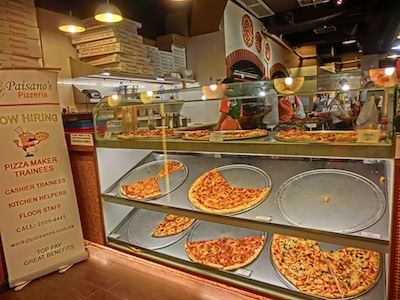
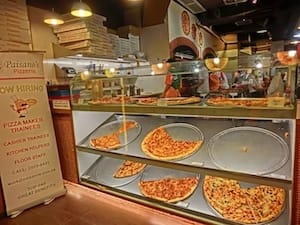
Pizza page updates
- Inlining bootstrap css styles below the footer this time.
- reduced / optimized pizzeria.jpg even more

References:
- Udacity Repo:
https://github.com/udacity/frontend-nanodegree-mobile-portfolio
-Project requirements:
https://github.com/udacity/frontend-nanodegree-mobile-portfolio

Live project url:
https://frontend-nanodegree-mobile-portfoli.netlify.com/
- I chose to host is on netlify, it uses github for version control,
this way I can directly see the page speed insights and readjust from
there.

diff --git a/views/pizza.html b/views/pizza.html
@@ -40,7 +40,6 @@
         </div>
       </div>
       <div id="movingPizzas1" class="col-md-6">
-        <!-- <img class="mover" src="images/pizza100x100.png" alt="100px by 100px pizza"> -->
       </div>
     </div>
     <div id="callToAction" class="row">
@@ -147,12 +146,14 @@
     <div id="footer" class="col-md-12">Thanks for visiting! &copy; 2014 Udacity</div>
   </div>
   <!-- minified bootstrap grid css file -->
-  <link rel="stylesheet" href="css/bootstrap-grid-min.css">
+  <style>
+    img{vertical-align:middle}.img-responsive{display:block;max-width:100%;height:auto}.img-rounded{border-radius:6px}.img-thumbnail{padding:4px;line-height:1.42857143;background-color:#ffffff;border:1px solid #dddddd;border-radius:4px;-webkit-transition:all 0.2s ease-in-out;-o-transition:all 0.2s ease-in-out;transition:all 0.2s ease-in-out;display:inline-block;width:100% \9;max-width:100%;height:auto}.img-circle{border-radius:50%}hr{margin-top:20px;margin-bottom:20px;border:0;border-top:1px solid #eeeeee}.sr-only{position:absolute;width:1px;height:1px;margin:-1px;padding:0;overflow:hidden;clip:rect(0, 0, 0, 0);border:0}.sr-only-focusable:active,.sr-only-focusable:focus{position:static;width:auto;height:auto;margin:0;overflow:visible;clip:auto}.container{margin-right:auto;margin-left:auto;padding-left:15px;padding-right:15px}@media (min-width: 768px){.container{width:750px}}@media (min-width: 992px){.container{width:970px}}@media (min-width: 1200px){.container{width:1170px}}.container-fluid{margin-right:auto;margin-left:auto;padding-left:15px;padding-right:15px}.row{margin-left:-15px;margin-right:-15px}.col-xs-1,.col-sm-1,.col-md-1,.col-lg-1,.col-xs-2,.col-sm-2,.col-md-2,.col-lg-2,.col-xs-3,.col-sm-3,.col-md-3,.col-lg-3,.col-xs-4,.col-sm-4,.col-md-4,.col-lg-4,.col-xs-5,.col-sm-5,.col-md-5,.col-lg-5,.col-xs-6,.col-sm-6,.col-md-6,.col-lg-6,.col-xs-7,.col-sm-7,.col-md-7,.col-lg-7,.col-xs-8,.col-sm-8,.col-md-8,.col-lg-8,.col-xs-9,.col-sm-9,.col-md-9,.col-lg-9,.col-xs-10,.col-sm-10,.col-md-10,.col-lg-10,.col-xs-11,.col-sm-11,.col-md-11,.col-lg-11,.col-xs-12,.col-sm-12,.col-md-12,.col-lg-12{position:relative;min-height:1px;padding-left:15px;padding-right:15px}.col-xs-1,.col-xs-2,.col-xs-3,.col-xs-4,.col-xs-5,.col-xs-6,.col-xs-7,.col-xs-8,.col-xs-9,.col-xs-10,.col-xs-11,.col-xs-12{float:left}.col-xs-12{width:100%}.col-xs-11{width:91.66666667%}.col-xs-10{width:83.33333333%}.col-xs-9{width:75%}.col-xs-8{width:66.66666667%}.col-xs-7{width:58.33333333%}.col-xs-6{width:50%}.col-xs-5{width:41.66666667%}.col-xs-4{width:33.33333333%}.col-xs-3{width:25%}.col-xs-2{width:16.66666667%}.col-xs-1{width:8.33333333%}.col-xs-pull-12{right:100%}.col-xs-pull-11{right:91.66666667%}.col-xs-pull-10{right:83.33333333%}.col-xs-pull-9{right:75%}.col-xs-pull-8{right:66.66666667%}.col-xs-pull-7{right:58.33333333%}.col-xs-pull-6{right:50%}.col-xs-pull-5{right:41.66666667%}.col-xs-pull-4{right:33.33333333%}.col-xs-pull-3{right:25%}.col-xs-pull-2{right:16.66666667%}.col-xs-pull-1{right:8.33333333%}.col-xs-pull-0{right:auto}.col-xs-push-12{left:100%}.col-xs-push-11{left:91.66666667%}.col-xs-push-10{left:83.33333333%}.col-xs-push-9{left:75%}.col-xs-push-8{left:66.66666667%}.col-xs-push-7{left:58.33333333%}.col-xs-push-6{left:50%}.col-xs-push-5{left:41.66666667%}.col-xs-push-4{left:33.33333333%}.col-xs-push-3{left:25%}.col-xs-push-2{left:16.66666667%}.col-xs-push-1{left:8.33333333%}.col-xs-push-0{left:auto}.col-xs-offset-12{margin-left:100%}.col-xs-offset-11{margin-left:91.66666667%}.col-xs-offset-10{margin-left:83.33333333%}.col-xs-offset-9{margin-left:75%}.col-xs-offset-8{margin-left:66.66666667%}.col-xs-offset-7{margin-left:58.33333333%}.col-xs-offset-6{margin-left:50%}.col-xs-offset-5{margin-left:41.66666667%}.col-xs-offset-4{margin-left:33.33333333%}.col-xs-offset-3{margin-left:25%}.col-xs-offset-2{margin-left:16.66666667%}.col-xs-offset-1{margin-left:8.33333333%}.col-xs-offset-0{margin-left:0%}@media (min-width: 768px){.col-sm-1,.col-sm-2,.col-sm-3,.col-sm-4,.col-sm-5,.col-sm-6,.col-sm-7,.col-sm-8,.col-sm-9,.col-sm-10,.col-sm-11,.col-sm-12{float:left}.col-sm-12{width:100%}.col-sm-11{width:91.66666667%}.col-sm-10{width:83.33333333%}.col-sm-9{width:75%}.col-sm-8{width:66.66666667%}.col-sm-7{width:58.33333333%}.col-sm-6{width:50%}.col-sm-5{width:41.66666667%}.col-sm-4{width:33.33333333%}.col-sm-3{width:25%}.col-sm-2{width:16.66666667%}.col-sm-1{width:8.33333333%}.col-sm-pull-12{right:100%}.col-sm-pull-11{right:91.66666667%}.col-sm-pull-10{right:83.33333333%}.col-sm-pull-9{right:75%}.col-sm-pull-8{right:66.66666667%}.col-sm-pull-7{right:58.33333333%}.col-sm-pull-6{right:50%}.col-sm-pull-5{right:41.66666667%}.col-sm-pull-4{right:33.33333333%}.col-sm-pull-3{right:25%}.col-sm-pull-2{right:16.66666667%}.col-sm-pull-1{right:8.33333333%}.col-sm-pull-0{right:auto}.col-sm-push-12{left:100%}.col-sm-push-11{left:91.66666667%}.col-sm-push-10{left:83.33333333%}.col-sm-push-9{left:75%}.col-sm-push-8{left:66.66666667%}.col-sm-push-7{left:58.33333333%}.col-sm-push-6{left:50%}.col-sm-push-5{left:41.66666667%}.col-sm-push-4{left:33.33333333%}.col-sm-push-3{left:25%}.col-sm-push-2{left:16.66666667%}.col-sm-push-1{left:8.33333333%}.col-sm-push-0{left:auto}.col-sm-offset-12{margin-left:100%}.col-sm-offset-11{margin-left:91.66666667%}.col-sm-offset-10{margin-left:83.33333333%}.col-sm-offset-9{margin-left:75%}.col-sm-offset-8{margin-left:66.66666667%}.col-sm-offset-7{margin-left:58.33333333%}.col-sm-offset-6{margin-left:50%}.col-sm-offset-5{margin-left:41.66666667%}.col-sm-offset-4{margin-left:33.33333333%}.col-sm-offset-3{margin-left:25%}.col-sm-offset-2{margin-left:16.66666667%}.col-sm-offset-1{margin-left:8.33333333%}.col-sm-offset-0{margin-left:0%}}@media (min-width: 992px){.col-md-1,.col-md-2,.col-md-3,.col-md-4,.col-md-5,.col-md-6,.col-md-7,.col-md-8,.col-md-9,.col-md-10,.col-md-11,.col-md-12{float:left}.col-md-12{width:100%}.col-md-11{width:91.66666667%}.col-md-10{width:83.33333333%}.col-md-9{width:75%}.col-md-8{width:66.66666667%}.col-md-7{width:58.33333333%}.col-md-6{width:50%}.col-md-5{width:41.66666667%}.col-md-4{width:33.33333333%}.col-md-3{width:25%}.col-md-2{width:16.66666667%}.col-md-1{width:8.33333333%}.col-md-pull-12{right:100%}.col-md-pull-11{right:91.66666667%}.col-md-pull-10{right:83.33333333%}.col-md-pull-9{right:75%}.col-md-pull-8{right:66.66666667%}.col-md-pull-7{right:58.33333333%}.col-md-pull-6{right:50%}.col-md-pull-5{right:41.66666667%}.col-md-pull-4{right:33.33333333%}.col-md-pull-3{right:25%}.col-md-pull-2{right:16.66666667%}.col-md-pull-1{right:8.33333333%}.col-md-pull-0{right:auto}.col-md-push-12{left:100%}.col-md-push-11{left:91.66666667%}.col-md-push-10{left:83.33333333%}.col-md-push-9{left:75%}.col-md-push-8{left:66.66666667%}.col-md-push-7{left:58.33333333%}.col-md-push-6{left:50%}.col-md-push-5{left:41.66666667%}.col-md-push-4{left:33.33333333%}.col-md-push-3{left:25%}.col-md-push-2{left:16.66666667%}.col-md-push-1{left:8.33333333%}.col-md-push-0{left:auto}.col-md-offset-12{margin-left:100%}.col-md-offset-11{margin-left:91.66666667%}.col-md-offset-10{margin-left:83.33333333%}.col-md-offset-9{margin-left:75%}.col-md-offset-8{margin-left:66.66666667%}.col-md-offset-7{margin-left:58.33333333%}.col-md-offset-6{margin-left:50%}.col-md-offset-5{margin-left:41.66666667%}.col-md-offset-4{margin-left:33.33333333%}.col-md-offset-3{margin-left:25%}.col-md-offset-2{margin-left:16.66666667%}.col-md-offset-1{margin-left:8.33333333%}.col-md-offset-0{margin-left:0%}}@media (min-width: 1200px){.col-lg-1,.col-lg-2,.col-lg-3,.col-lg-4,.col-lg-5,.col-lg-6,.col-lg-7,.col-lg-8,.col-lg-9,.col-lg-10,.col-lg-11,.col-lg-12{float:left}.col-lg-12{width:100%}.col-lg-11{width:91.66666667%}.col-lg-10{width:83.33333333%}.col-lg-9{width:75%}.col-lg-8{width:66.66666667%}.col-lg-7{width:58.33333333%}.col-lg-6{width:50%}.col-lg-5{width:41.66666667%}.col-lg-4{width:33.33333333%}.col-lg-3{width:25%}.col-lg-2{width:16.66666667%}.col-lg-1{width:8.33333333%}.col-lg-pull-12{right:100%}.col-lg-pull-11{right:91.66666667%}.col-lg-pull-10{right:83.33333333%}.col-lg-pull-9{right:75%}.col-lg-pull-8{right:66.66666667%}.col-lg-pull-7{right:58.33333333%}.col-lg-pull-6{right:50%}.col-lg-pull-5{right:41.66666667%}.col-lg-pull-4{right:33.33333333%}.col-lg-pull-3{right:25%}.col-lg-pull-2{right:16.66666667%}.col-lg-pull-1{right:8.33333333%}.col-lg-pull-0{right:auto}.col-lg-push-12{left:100%}.col-lg-push-11{left:91.66666667%}.col-lg-push-10{left:83.33333333%}.col-lg-push-9{left:75%}.col-lg-push-8{left:66.66666667%}.col-lg-push-7{left:58.33333333%}.col-lg-push-6{left:50%}.col-lg-push-5{left:41.66666667%}.col-lg-push-4{left:33.33333333%}.col-lg-push-3{left:25%}.col-lg-push-2{left:16.66666667%}.col-lg-push-1{left:8.33333333%}.col-lg-push-0{left:auto}.col-lg-offset-12{margin-left:100%}.col-lg-offset-11{margin-left:91.66666667%}.col-lg-offset-10{margin-left:83.33333333%}.col-lg-offset-9{margin-left:75%}.col-lg-offset-8{margin-left:66.66666667%}.col-lg-offset-7{margin-left:58.33333333%}.col-lg-offset-6{margin-left:50%}.col-lg-offset-5{margin-left:41.66666667%}.col-lg-offset-4{margin-left:33.33333333%}.col-lg-offset-3{margin-left:25%}.col-lg-offset-2{margin-left:16.66666667%}.col-lg-offset-1{margin-left:8.33333333%}.col-lg-offset-0{margin-left:0%}}.clearfix:before,.clearfix:after,.container:before,.container:after,.container-fluid:before,.container-fluid:after,.row:before,.row:after{content:" ";display:table}.clearfix:after,.container:after,.container-fluid:after,.row:after{clear:both}.center-block{display:block;margin-left:auto;margin-right:auto}.pull-right{float:right !important}.pull-left{float:left !important}.hide{display:none !important}.show{display:block !important}.invisible{visibility:hidden}.text-hide{font:0/0 a;color:transparent;text-shadow:none;background-color:transparent;border:0}.hidden{display:none !important;visibility:hidden !important}.affix{position:fixed;-webkit-transform:translate3d(0, 0, 0);transform:translate3d(0, 0, 0)}
+  </style>
+  <!-- <link rel="stylesheet" href="css/bootstrap-grid-min.css"> -->
   <!-- <script type="text/javascript" src="js/main-min.js"></script> -->
   <script>
     function getAdj(e){switch(e){case"dark":var a=["dark","morbid","scary","spooky","gothic","deviant","creepy","sadistic","black","dangerous","dejected","haunted","morose","tragic","shattered","broken","sad","melancholy","somber","dark","gloomy","homicidal","murderous","shady","misty","dusky","ghostly","shadowy","demented","cursed","insane","possessed","grotesque","obsessed"];return a;case"color":var r=["blue","green","purple","grey","scarlet","NeonGreen","NeonBlue","NeonPink","HotPink","pink","black","red","maroon","silver","golden","yellow","orange","mustard","plum","violet","cerulean","brown","lavender","violet","magenta","chestnut","rosy","copper","crimson","teal","indigo","navy","azure","periwinkle","brassy","verdigris","veridian","tan","raspberry","beige","sandy","ElectricBlue","white","champagne","coral","cyan"];return r;case"whimsical":var n=["whimsical","silly","drunken","goofy","funny","weird","strange","odd","playful","clever","boastful","breakdancing","hilarious","conceited","happy","comical","curious","peculiar","quaint","quirky","fancy","wayward","fickle","yawning","sleepy","cockeyed","dizzy","dancing","absurd","laughing","hairy","smiling","perplexed","baffled","cockamamie","vulgar","hoodwinked","brainwashed"];return n;case"shiny":var i=["sapphire","opal","silver","gold","platinum","ruby","emerald","topaz","diamond","amethyst","turquoise","starlit","moonlit","bronze","metal","jade","amber","garnet","obsidian","onyx","pearl","copper","sunlit","brass","brassy","metallic"];return i;case"noisy":var t=["untuned","loud","soft","shrieking","melodious","musical","operatic","symphonic","dancing","lyrical","harmonic","orchestral","noisy","dissonant","rhythmic","hissing","singing","crooning","shouting","screaming","wailing","crying","howling","yelling","hollering","caterwauling","bawling","bellowing","roaring","squealing","beeping","knocking","tapping","rapping","humming","scatting","whispered","whispering","rasping","buzzing","whirring","whistling","whistled"];return t;case"apocalyptic":var o=["nuclear","apocalyptic","desolate","atomic","zombie","collapsed","grim","fallen","collapsed","cannibalistic","radioactive","toxic","poisonous","venomous","disastrous","grimy","dirty","undead","bloodshot","rusty","glowing","decaying","rotten","deadly","plagued","decimated","rotting","putrid","decayed","deserted","acidic"];return o;case"insulting":var s=["stupid","idiotic","fat","ugly","hideous","grotesque","dull","dumb","lazy","sluggish","brainless","slow","gullible","obtuse","dense","dim","dazed","ridiculous","witless","daft","crazy","vapid","inane","mundane","hollow","vacuous","boring","insipid","tedious","monotonous","weird","bizarre","backward","moronic","ignorant","scatterbrained","forgetful","careless","lethargic","insolent","indolent","loitering","gross","disgusting","bland","horrid","unseemly","revolting","homely","deformed","disfigured","offensive","cowardly","weak","villainous","fearful","monstrous","unattractive","unpleasant","nasty","beastly","snide","horrible","syncophantic","unhelpful","bootlicking"];return s;case"praise":var l=["beautiful","intelligent","smart","genius","ingenious","gorgeous","pretty","witty","angelic","handsome","graceful","talented","exquisite","enchanting","fascinating","interesting","divine","alluring","ravishing","wonderful","magnificient","marvelous","dazzling","cute","charming","attractive","nifty","delightful","superior","amiable","gentle","heroic","courageous","valiant","brave","noble","daring","fearless","gallant","adventurous","cool","enthusiastic","fierce","awesome","radical","tubular","fearsome","majestic","grand","stunning"];return l;case"scientific":var c=["scientific","technical","digital","programming","calculating","formulating","cyberpunk","mechanical","technological","innovative","brainy","chemical","quantum","astro","space","theoretical","atomic","electronic","gaseous","investigative","solar","extinct","galactic"];return c;default:var u=["scientific","technical","digital","programming","calculating","formulating","cyberpunk","mechanical","technological","innovative","brainy","chemical","quantum","astro","space","theoretical","atomic","electronic","gaseous","investigative","solar","extinct","galactic"];return u}}function getNoun(e){switch(e){case"animals":var a=["flamingo","hedgehog","owl","elephant","pussycat","alligator","dachsund","poodle","beagle","crocodile","kangaroo","wallaby","woodpecker","eagle","falcon","canary","parrot","parakeet","hamster","gerbil","squirrel","rat","dove","toucan","raccoon","vulture","peacock","goldfish","rook","koala","skunk","goat","rooster","fox","porcupine","llama","grasshopper","gorilla","monkey","seahorse","wombat","wolf","giraffe","badger","lion","mouse","beetle","cricket","nightingale","hawk","trout","squid","octopus","sloth","snail","locust","baboon","lemur","meerkat","oyster","frog","toad","jellyfish","butterfly","caterpillar","tiger","hyena","zebra","snail","pig","weasel","donkey","penguin","crane","buzzard","vulture","rhino","hippopotamus","dolphin","sparrow","beaver","moose","minnow","otter","bat","mongoose","swan","firefly","platypus"];return a;case"profession":var r=["doctor","lawyer","ninja","writer","samurai","surgeon","clerk","artist","actor","engineer","mechanic","comedian","fireman","nurse","RockStar","musician","carpenter","plumber","cashier","electrician","waiter","president","governor","senator","scientist","programmer","singer","dancer","director","mayor","merchant","detective","investigator","navigator","pilot","priest","cowboy","stagehand","soldier","ambassador","pirate","miner","police"];return r;case"fantasy":var n=["centaur","wizard","gnome","orc","troll","sword","fairy","pegasus","halfling","elf","changeling","ghost","knight","squire","magician","witch","warlock","unicorn","dragon","wyvern","princess","prince","king","queen","jester","tower","castle","kraken","seamonster","mermaid","psychic","seer","oracle"];return n;case"music":var i=["violin","flute","bagpipe","guitar","symphony","orchestra","piano","trombone","tuba","opera","drums","harpsichord","harp","harmonica","accordion","tenor","soprano","baritone","cello","viola","piccolo","ukelele","woodwind","saxophone","bugle","trumpet","sousaphone","cornet","stradivarius","marimbas","bells","timpani","bongos","clarinet","recorder","oboe","conductor","singer"];return i;case"horror":var t=["murderer","chainsaw","knife","sword","murder","devil","killer","psycho","ghost","monster","godzilla","werewolf","vampire","demon","graveyard","zombie","mummy","curse","death","grave","tomb","beast","nightmare","frankenstein","specter","poltergeist","wraith","corpse","scream","massacre","cannibal","skull","bones","undertaker","zombie","creature","mask","psychopath","fiend","satanist","moon","fullMoon"];return t;case"gross":var o=["slime","bug","roach","fluid","pus","booger","spit","boil","blister","orifice","secretion","mucus","phlegm","centipede","beetle","fart","snot","crevice","flatulence","juice","mold","mildew","germs","discharge","toilet","udder","odor","substance","fluid","moisture","garbage","trash","bug"];return o;case"everyday":var s=["mirror","knife","fork","spork","spoon","tupperware","minivan","suburb","lamp","desk","stereo","television","TV","book","car","truck","soda","door","video","game","computer","calender","tree","plant","flower","chimney","attic","kitchen","garden","school","wallet","bottle"];return s;case"jewelry":var l=["earrings","ring","necklace","pendant","choker","brooch","bracelet","cameo","charm","bauble","trinket","jewelry","anklet","bangle","locket","finery","crown","tiara","blingBling","chain","rosary","jewel","gemstone","beads","armband","pin","costume","ornament","treasure"];return l;case"places":var c=["swamp","graveyard","cemetery","park","building","house","river","ocean","sea","field","forest","woods","neighborhood","city","town","suburb","country","meadow","cliffs","lake","stream","creek","school","college","university","library","bakery","shop","store","theater","garden","canyon","highway","restaurant","cafe","diner","street","road","freeway","alley"];return c;case"scifi":var u=["robot","alien","raygun","spaceship","UFO","rocket","phaser","astronaut","spaceman","planet","star","galaxy","computer","future","timeMachine","wormHole","timeTraveler","scientist","invention","martian","pluto","jupiter","saturn","mars","quasar","blackHole","warpDrive","laser","orbit","gears","molecule","electron","neutrino","proton","experiment","photon","apparatus","universe","gravity","darkMatter","constellation","circuit","asteroid"];return u;default:var d=["robot","alien","raygun","spaceship","UFO","rocket","phaser","astronaut","spaceman","planet","star","galaxy","computer","future","timeMachine","wormHole","timeTraveler","scientist","invention","martian","pluto","jupiter","saturn","mars","quasar","blackHole","warpDrive","laser","orbit","gears","molecule","electron","neutrino","proton","experiment","photon","apparatus","universe","gravity","darkMatter","constellation","circuit","asteroid"];return d}}function generator(e,a){var r=getAdj(e),n=getNoun(a),i=parseInt(Math.random()*r.length),t=parseInt(Math.random()*n.length),o="The "+r[i].capitalize()+" "+n[t].capitalize();return o}function randomName(){var e=parseInt(Math.random()*adjectives.length),a=parseInt(Math.random()*nouns.length);return generator(adjectives[e],nouns[a])}function logAverageFrame(e){for(var a=e.length,r=0,n=a-1;n>a-11;n--)r+=e[n].duration;console.log("Average scripting time to generate last 10 frames: "+r/10+"ms")}function updatePositions(){frame++,window.performance.mark("mark_start_frame");for(var e=items.length,a=document.body.scrollTop/1250,r=0;r<e;r++){var n=Math.sin(a+r%5);items[r].style.left=items[r].basicLeft+100*n+"px"}if(window.performance.mark("mark_end_frame"),window.performance.measure("measure_frame_duration","mark_start_frame","mark_end_frame"),frame%10===0){var i=window.performance.getEntriesByName("measure_frame_duration");logAverageFrame(i)}}var pizzaIngredients={};pizzaIngredients.meats=["Pepperoni","Sausage","Fennel Sausage","Spicy Sausage","Chicken","BBQ Chicken","Chorizo","Chicken Andouille","Salami","Tofu","Bacon","Canadian Bacon","Proscuitto","Italian Sausage","Ground Beef","Anchovies","Turkey","Ham","Venison","Lamb","Duck","Soylent Green","Carne Asada","Soppressata Picante","Coppa","Pancetta","Bresola","Lox","Guanciale","Chili","Beef Jerky","Pastrami","Kielbasa","Scallops","Filet Mignon"],pizzaIngredients.nonMeats=["White Onions","Red Onions","Sauteed Onions","Green Peppers","Red Peppers","Banana Peppers","Ghost Peppers","Habanero Peppers","Jalapeno Peppers","Stuffed Peppers","Spinach","Tomatoes","Pineapple","Pear Slices","Apple Slices","Mushrooms","Arugula","Basil","Fennel","Rosemary","Cilantro","Avocado","Guacamole","Salsa","Swiss Chard","Kale","Sun Dried Tomatoes","Walnuts","Artichoke","Asparagus","Caramelized Onions","Mango","Garlic","Olives","Cauliflower","Polenta","Fried Egg","Zucchini","Hummus"],pizzaIngredients.cheeses=["American Cheese","Swiss Cheese","Goat Cheese","Mozzarella Cheese","Parmesean Cheese","Velveeta Cheese","Gouda Cheese","Muenster Cheese","Applewood Cheese","Asiago Cheese","Bleu Cheese","Boursin Cheese","Brie Cheese","Cheddar Cheese","Chevre Cheese","Havarti Cheese","Jack Cheese","Pepper Jack Cheese","Gruyere Cheese","Limberger Cheese","Manchego Cheese","Marscapone Cheese","Pecorino Cheese","Provolone Cheese","Queso Cheese","Roquefort Cheese","Romano Cheese","Ricotta Cheese","Smoked Gouda"],pizzaIngredients.sauces=["Red Sauce","Marinara","BBQ Sauce","No Sauce","Hot Sauce"],pizzaIngredients.crusts=["White Crust","Whole Wheat Crust","Flatbread Crust","Stuffed Crust"],String.prototype.capitalize=function(){return this.charAt(0).toUpperCase()+this.slice(1)};var adjectives=["dark","color","whimsical","shiny","noisy","apocalyptic","insulting","praise","scientific"],nouns=["animals","everyday","fantasy","gross","horror","jewelry","places","scifi"],selectRandomMeat=function(){var e=pizzaIngredients.meats[Math.floor(Math.random()*pizzaIngredients.meats.length)];return e},selectRandomNonMeat=function(){var e=pizzaIngredients.nonMeats[Math.floor(Math.random()*pizzaIngredients.nonMeats.length)];return e},selectRandomCheese=function(){var e=pizzaIngredients.cheeses[Math.floor(Math.random()*pizzaIngredients.cheeses.length)];return e},selectRandomSauce=function(){var e=pizzaIngredients.sauces[Math.floor(Math.random()*pizzaIngredients.sauces.length)];return e},selectRandomCrust=function(){var e=pizzaIngredients.crusts[Math.floor(Math.random()*pizzaIngredients.crusts.length)];return e},ingredientItemizer=function(e){return"<li>"+e+"</li>"},makeRandomPizza=function(){for(var e="",a=Math.floor(4*Math.random()),r=Math.floor(3*Math.random()),n=Math.floor(2*Math.random()),i=0;i<a;i++)e+=ingredientItemizer(selectRandomMeat());for(var t=0;t<r;t++)e+=ingredientItemizer(selectRandomNonMeat());for(var o=0;o<n;o++)e+=ingredientItemizer(selectRandomCheese());return e+=ingredientItemizer(selectRandomSauce()),e+=ingredientItemizer(selectRandomCrust())},pizzaElementGenerator=function(e){var a,r,n,i,t,o;return a=document.createElement("div"),r=document.createElement("div"),n=document.createElement("img"),i=document.createElement("div"),a.classList.add("randomPizzaContainer"),a.style.width="33.33%",a.style.height="325px",a.id="pizza"+e,r.style.width="35%",n.src="images/pizza.png",n.classList.add("img-responsive"),r.appendChild(n),a.appendChild(r),i.style.width="65%",t=document.createElement("h4"),t.innerHTML=randomName(),i.appendChild(t),o=document.createElement("ul"),o.innerHTML=makeRandomPizza(),i.appendChild(o),a.appendChild(i),a},resizePizzas=function(e){function a(e){switch(e){case"1":return void(i.innerHTML="Small");case"2":return void(i.innerHTML="Medium");case"3":return void(i.innerHTML="Large");default:console.log("bug in changeSliderLabel")}}function r(e,a){function r(e){switch(e){case"1":return.25;case"2":return.3333;case"3":return.5;default:console.log("bug in sizeSwitcher")}}var n=e.offsetWidth,i=document.getElementById("randomPizzas").offsetWidth,t=n/i,o=r(a),s=(o-t)*i;return s}function n(e){for(var a=document.getElementsByClassName("randomPizzaContainer").length,n=document.getElementsByClassName("randomPizzaContainer"),i=[],t=0;t<a;t++){var o=r(n[t],e);i.push(n[t].offsetWidth+o+"px")}for(var t=0;t<a;t++)n[t].style.width=i[t]}window.performance.mark("mark_start_resize");var i=document.getElementById("pizzaSize");a(e),n(e),window.performance.mark("mark_end_resize"),window.performance.measure("measure_pizza_resize","mark_start_resize","mark_end_resize");var t=window.performance.getEntriesByName("measure_pizza_resize");console.log("Time to resize pizzas: "+t[t.length-1].duration+"ms")};window.performance.mark("mark_start_generating");for(var pizzasDiv=document.getElementById("randomPizzas"),i=2;i<100;i++)pizzasDiv.appendChild(pizzaElementGenerator(i));window.performance.mark("mark_end_generating"),window.performance.measure("measure_pizza_generation","mark_start_generating","mark_end_generating");var timeToGenerate=window.performance.getEntriesByName("measure_pizza_generation");console.log("Time to generate pizzas on load: "+timeToGenerate[0].duration+"ms");var frame=0,items=document.getElementsByClassName("mover");window.addEventListener("scroll",updatePositions),document.addEventListener("DOMContentLoaded",function(){for(var e=8,a=256,r=document.getElementById("movingPizzas1"),n=0;n<40;n++){var i=document.createElement("img");i.className="mover",i.src="images/pizza100x100.png",i.style.height="73.333px",i.style.width="73.333px",i.basicLeft=n%e*a,i.style.top=Math.floor(n/e)*a+"px",r.appendChild(i)}requestAnimationFrame(updatePositions)});
   </script>
 </body>
 
-</html>
 </html>
